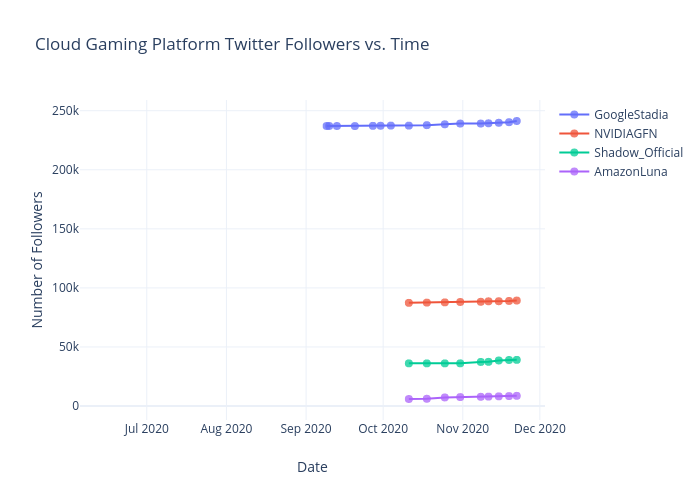
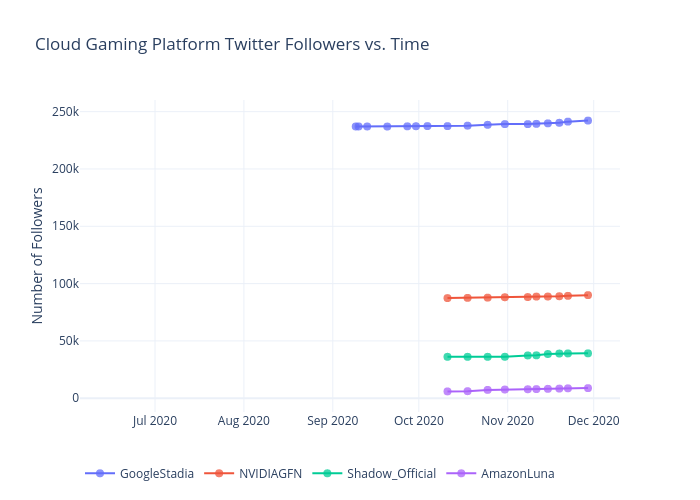
Add files via upload
11/29 data

diff --git a/twitter_platforms/figure.js b/twitter_platforms/figure.js
@@ -30,6 +30,7 @@ var figure = {
                 "2020-11-15",
                 "2020-11-19",
                 "2020-11-22",
+                "2020-11-29",
                 "2020-11-30",
                 "2020-12-06"
             ],
@@ -52,7 +53,8 @@ var figure = {
                 "239371",
                 "239804",
                 "240288",
-                "241308"
+                "241308",
+                "242205"
             ],
             "marker": {
                 "size": 8,
@@ -91,6 +93,7 @@ var figure = {
                 "2020-11-15",
                 "2020-11-19",
                 "2020-11-22",
+                "2020-11-29",
                 "2020-11-30",
                 "2020-12-06"
             ],
@@ -113,7 +116,8 @@ var figure = {
                 "88670",
                 "88725",
                 "88971",
-                "89317"
+                "89317",
+                "89942"
             ],
             "marker": {
                 "size": 8,
@@ -152,6 +156,7 @@ var figure = {
                 "2020-11-15",
                 "2020-11-19",
                 "2020-11-22",
+                "2020-11-29",
                 "2020-11-30",
                 "2020-12-06"
             ],
@@ -174,7 +179,8 @@ var figure = {
                 "37416",
                 "38574",
                 "38986",
-                "39086"
+                "39086",
+                "39158"
             ],
             "marker": {
                 "size": 8,
@@ -213,6 +219,7 @@ var figure = {
                 "2020-11-15",
                 "2020-11-19",
                 "2020-11-22",
+                "2020-11-29",
                 "2020-11-30",
                 "2020-12-06"
             ],
@@ -235,7 +242,8 @@ var figure = {
                 "7962",
                 "8192",
                 "8415",
-                "8640"
+                "8640",
+                "8819"
             ],
             "marker": {
                 "size": 8,
@@ -252,24 +260,30 @@ var figure = {
         "xaxis": {
             "type": "date",
             "range": [
-                "2020-06-05 21:17:03.3555",
-                "2020-12-02 02:42:56.6445"
+                "2020-06-05 14:19:50.0141",
+                "2020-12-09 09:40:09.9859"
             ],
             "title": {
-                "text": "Date"
+                "text": ""
             },
             "autorange": true
         },
         "yaxis": {
             "type": "linear",
             "range": [
-                -12619.026315789473,
-                259888.02631578947
+                -10434.204086718168,
+                258600.20408671818
             ],
             "title": {
                 "text": "Number of Followers"
             },
             "autorange": true
+        },
+        "legend": {
+            "x": 0,
+            "y": -0.15,
+            "bgcolor": "rgba(255, 255, 255, 0.01)",
+            "orientation": "h"
         },
         "autosize": true,
         "template": {
